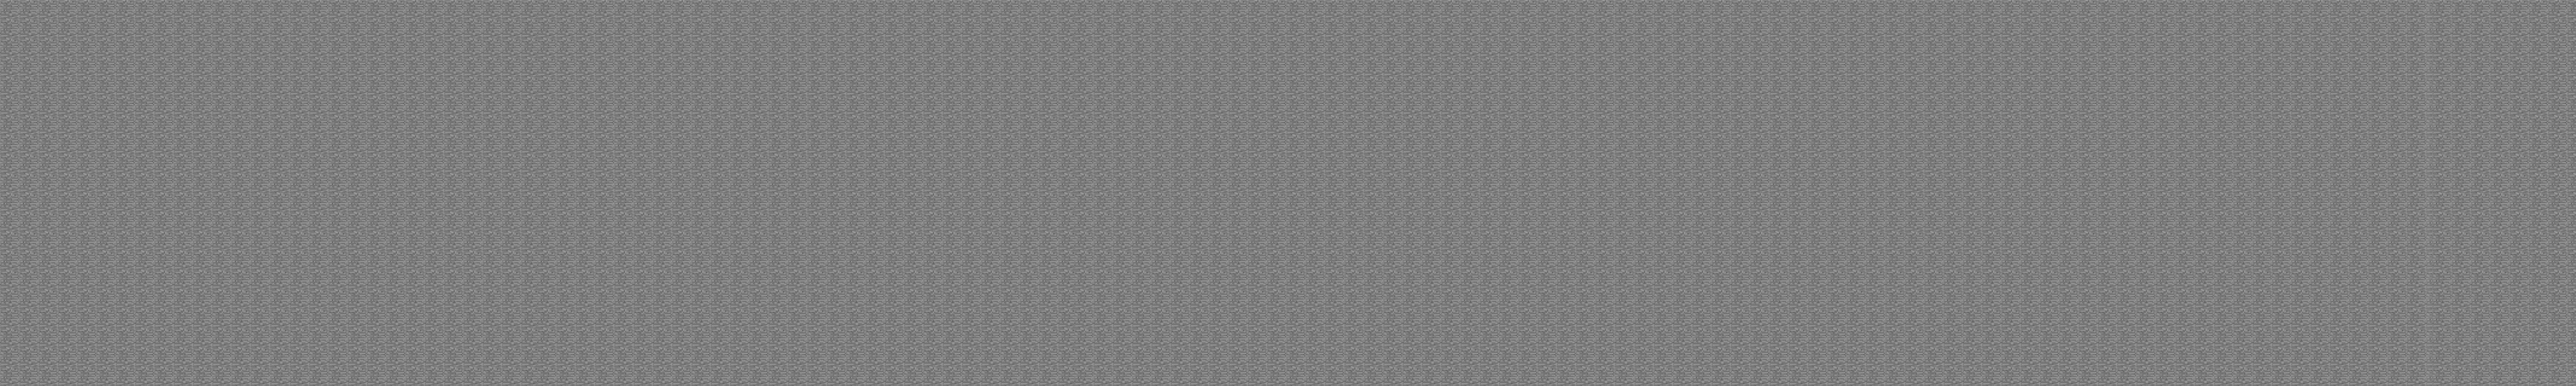
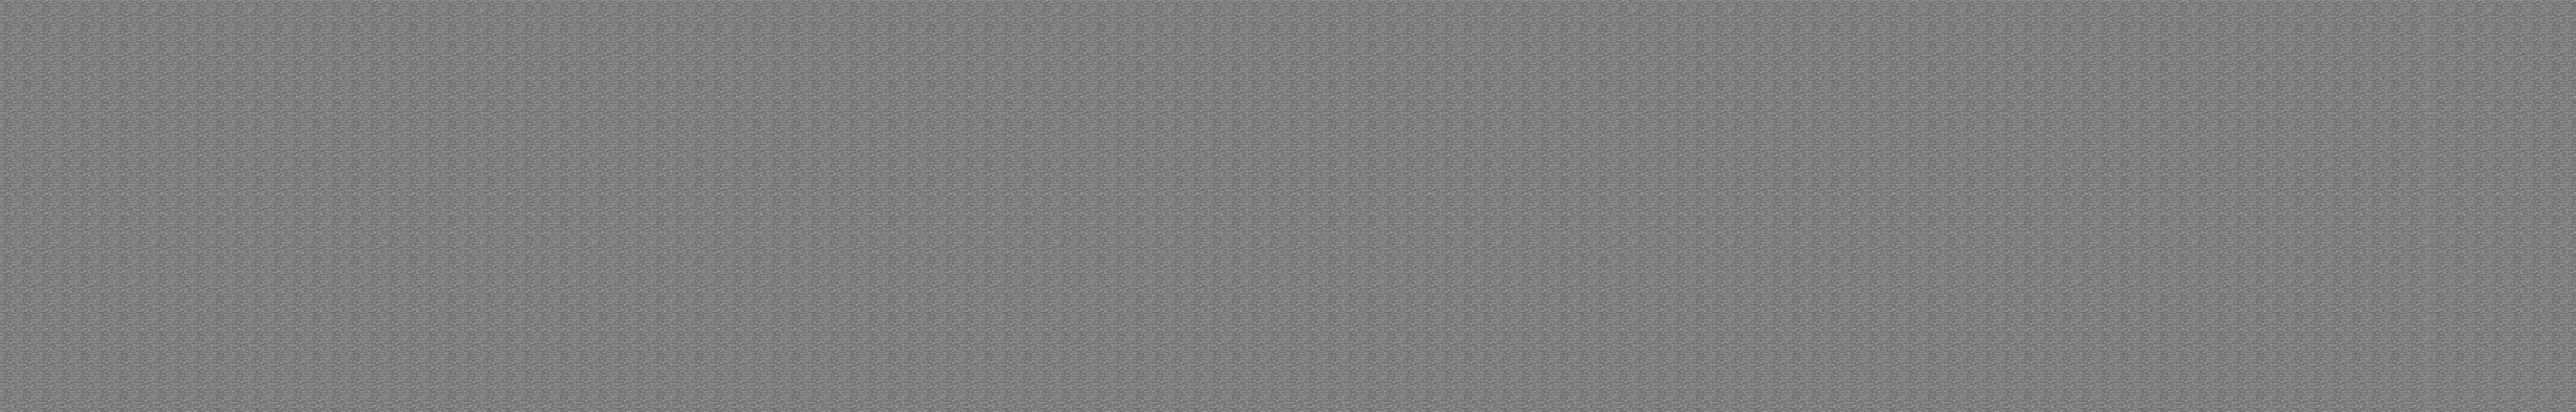
HIntergrund wurde angepasst

Changed region(s): [[0.0, 0.03, 1.0, 0.72], [0.0, 0.78, 1.0, 0.99]]

diff --git a/Website-P-Seminar/Caverunner/js/preload.js b/Website-P-Seminar/Caverunner/js/preload.js
@@ -22,10 +22,10 @@ preload: function () {
     game.load.image('ground', 'assets/platform.png');
   	game.load.image('1', 'assets/Block.png');
     game.load.image('flaeche','assets/unten.png');
-  	game.load.image('2h', 'assets/2h');
-  	game.load.image('2b', 'assets/2b.png');
-  	game.load.image('3h', 'assets/3h.png');
-  	game.load.image('3b', 'assets/3b.png');
+  	game.load.image('2h', 'assets/Block2Hoch.png');
+  	game.load.image('2b', 'assets/Block2Breit.png');
+  	game.load.image('3h', 'assets/Block3Hoch.png');
+  	game.load.image('3b', 'assets/Block3Breit.png');
   	game.load.image('4x4', 'assets/BlockQuadrat.png');
     game.load.image('klausur', 'assets/klausur.png');
     game.load.image('booster', 'assets/booster.png');
@@ -36,7 +36,7 @@ preload: function () {
   	game.load.spritesheet('wall', 'assets/WallSprite.png',32,600);
   	game.load.spritesheet('bloblin', 'assets/Bloblin4.png',32,32);
   	game.load.spritesheet('roblin', 'assets/Roblin.png',32,32);
-  	game.load.spritesheet('background', 'assets/Hintergrund.png', 4000, 600);
+  	game.load.spritesheet('background', 'assets/Hintergrund.png', 4000, 640);
     game.load.spritesheet('pickaxe', 'assets/picksmall.png', 20,32);
     game.load.spritesheet('sword', 'assets/swordsmall.png', 23,32);
     game.load.spritesheet('playbutton', 'assets/playbutton.png', 64, 64);

diff --git a/Website-P-Seminar/Caverunner/js/play.js b/Website-P-Seminar/Caverunner/js/play.js
@@ -1,4 +1,4 @@
-Hallo
+//Hallo
 var player1;
 var player2;
 var platforms;
@@ -70,6 +70,7 @@ let longitude = 0;
 var schule = false;
 var timeCheck;
 var playState = {
+
 	getlocation: function (){
 	//	navigator.geolocation.getCurrentPosition(position=>{latitude = position.coords.latitude; longitude = position.coords.longitude;});
 		console.log('layer1')
@@ -245,13 +246,14 @@ pause: function() {
 
 		var bau = this.platform3();
 		var pausebutton = this.game.add.button(870, 30, 'pausebutton', this.pause, this, 1, 0);
+		pausebutton.fixedToCamera = true;
 	},
 
 
 
 	update: function () {
 
-		var unpause = this.game.input.onDown.add(unpause, self);
+	//	var unpause = this.game.input.onDown.add(unpause, self);
 		function gameover() {
 			game.state.start("gameover");
 		}
@@ -1033,7 +1035,7 @@ pause: function() {
 
 		block111 = platforms.create(c * 960 + 11.5 * 32, 16 * 32,'2h');
 
-		block1111.body.immovable = true;
+		block111.body.immovable = true;
 
 		block112 = platforms.create(c * 960 + 4 * 32, 17 * 32,'1');
 
